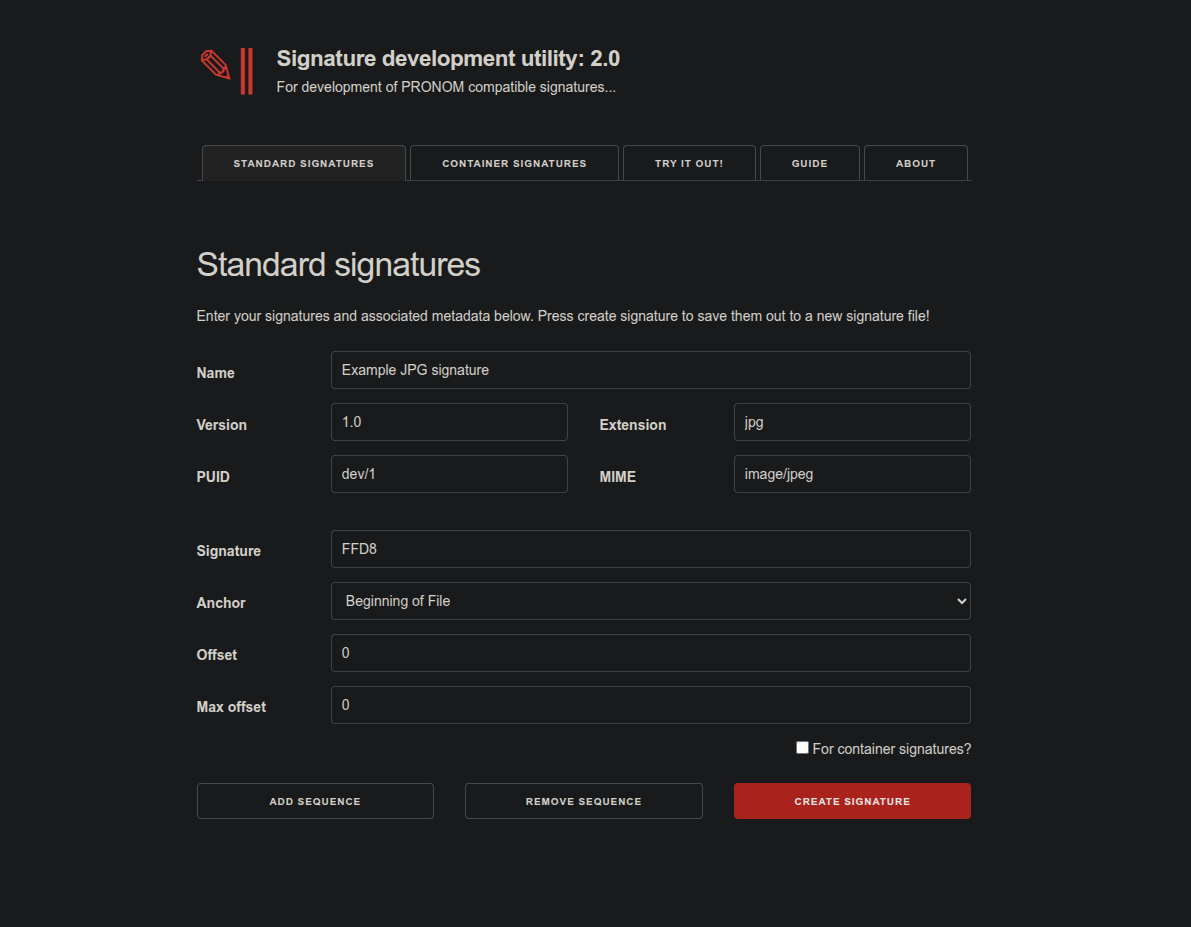
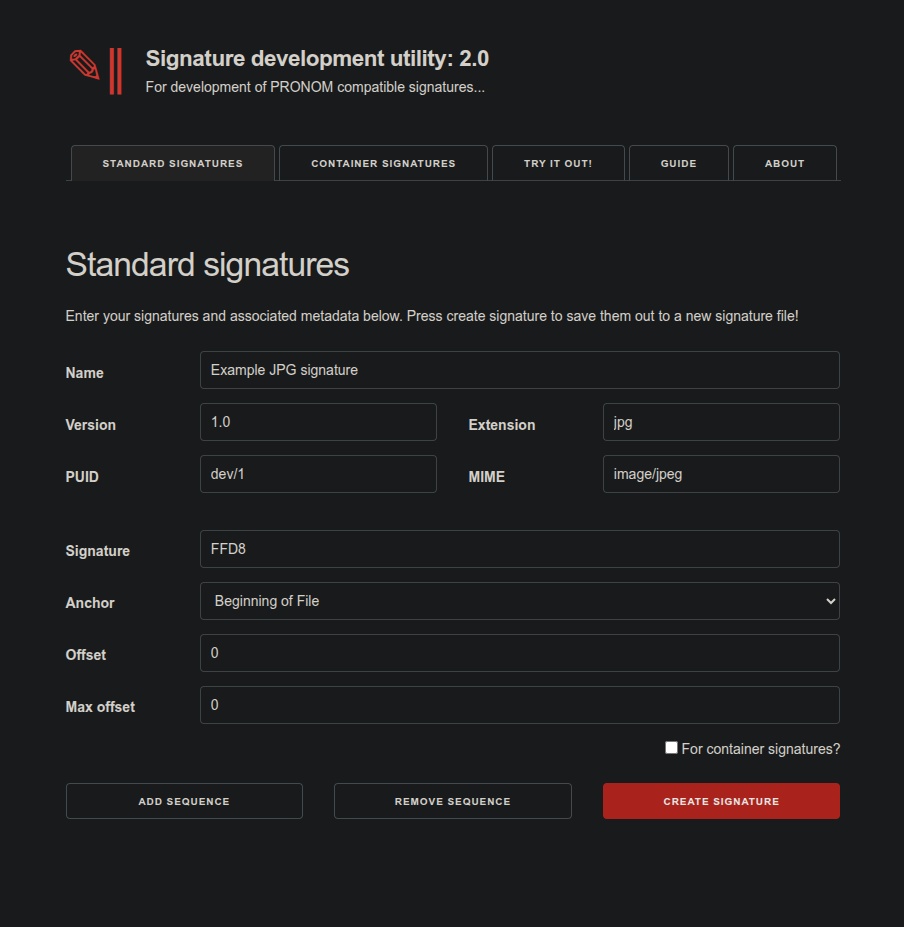
Use a better crop for the sigdev utility

diff --git a/episodes/007-creating-signature-files.md b/episodes/007-creating-signature-files.md
@@ -70,7 +70,7 @@ signature creation.
 
 <!--markdownlint-disable-->
 
-![The Signature Development Utility.](./fig/09-sigdev.png){alt='image shows the user interface of the signature development utility.'}
+![The Signature Development Utility](./fig/09-sigdev.png){alt='image shows the user interface of the signature development utility.'}
 
 <!--markdownlint-enable-->
 
